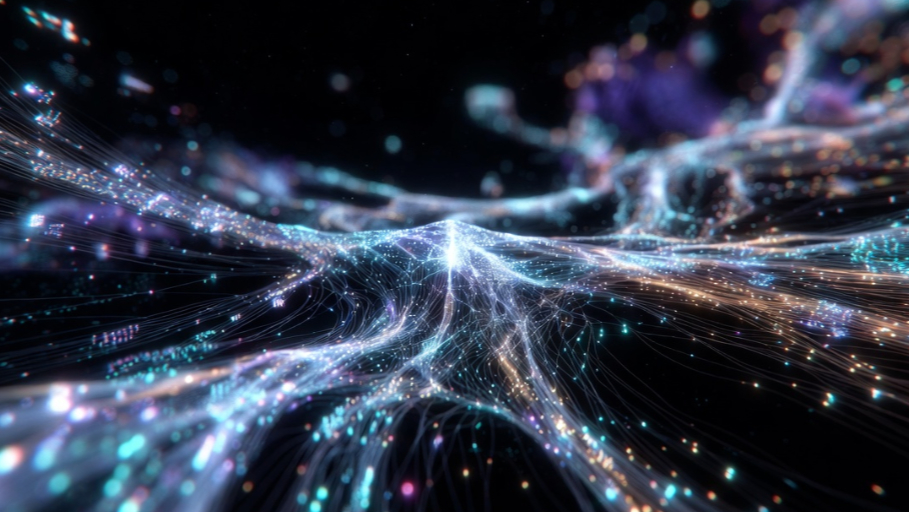
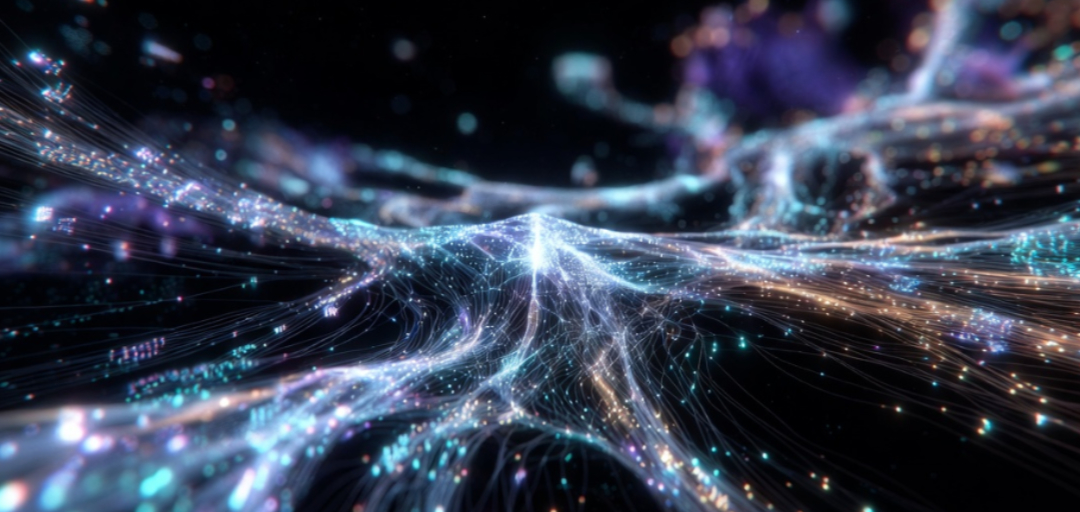
latent-pond

diff --git a/docs/analogy/19 Latent Pond/latent-pond.html b/docs/analogy/19 Latent Pond/latent-pond.html
@@ -1,0 +1,77 @@
+<!DOCTYPE html>
+<html lang="en">
+<head>
+    <meta charset="UTF-8">
+    <meta name="viewport" content="width=device-width, initial-scale=1.0">
+    <title>The Latent Pond: Hyper Frog Jump Mechanics</title>
+    <link rel="stylesheet" href="../analogy.css">
+</head>
+<body>
+
+<img src="latent-pond.jpg" alt="The Latent Pond: Hyper Frog Jump Mechanics" style="max-width:100%; height:auto; display:block; margin:0 auto 2rem;">
+
+<h1><span class="title-main">The Latent Pond</span>: <span class="title-sub">Hyper Frog Jump Mechanics</span></h1>
+<p class="byline">Ben Um · March 30, 2026</p>
+
+<p>This piece belongs to an ongoing series of articles I’ve been writing. The index page refers to it as the “Analogy Series,” but I’ve been informally calling the evolving collection my <strong>Mental Stack</strong> — a living, growing archive of ideas, personal experiences, and cross-domain analogies that I continue to expand and revisit. When I feed this entire Mental Stack into an LLM as context, it becomes the rich prefill that powers the generation process I’m about to describe.</p>
+
+<p>Imagine the generation process as a <strong>hyper-frog</strong> navigating a pond. The hyper-frog is a playful metaphor for the autoregressive decoding mechanism of the LLM. Each micro-hop represents one step of next-token generation — the model deciding what comes next, token by token.</p>
+
+<p>The prefill operation does two crucial things at once. First, it constructs a semantically rich lily pad pond by computing and storing explicit Key-Value snapshots for every token in the Mental Stack. These snapshots encode directional intent — concrete relational waypoints. Second, it generates the final hidden state corresponding to the last prompt token. This hidden state serves as the precise starting position for the hyper-frog when generation begins.</p>
+
+<p>From that point forward, every micro-hop is fully deterministic: the current hidden state produces a Query that attends directly to the explicit directional signals in the growing KV cache. The resulting computation produces a new hidden state, which becomes the input for the next micro-hop. There are no side registers or external initializations — the KV cache is the sole persistent carrier of context and encoded intent.</p>
+
+<h2>The Beauty of Explicit Directional Snapshots</h2>
+<p>The most striking beauty of the KV cache is that intent itself is encoded explicitly in each snapshot. Every lily pad placed during prefill carries not just content, but a directional waypoint — a concrete relational signal in its Key and Value vectors saying “pull here when a proportional query arrives.”</p>
+
+<p>The hyper-frog’s micro-hops do not guess at direction. They query these explicit snapshots directly. The waypoint is not implied by the growing sequence. It is already present, baked into the cache geometry.</p>
+
+<p>This is what makes feeding the entire Mental Stack as prefill so powerful. The pond becomes dense with interconnected lily pads carrying strong, persistent directional beacons from concepts such as “views are values,” “git diff reconciliation,” “KRO kernels,” and “dad jokes as Reynolds probe.”</p>
+
+<h2>The Hyper-Frog in Motion</h2>
+<p>During generation the hyper-frog performs thousands of micro-hops. Each hop is a tiny perspective shift driven by the attention mechanism:</p>
+<ul>
+    <li>The current hidden state forms a Query.</li>
+    <li>The Query measures proportional compatibility against all cached Keys.</li>
+    <li>Softmax produces attention weights that blend the corresponding Values.</li>
+    <li>This blended context updates the hidden state for the next hop.</li>
+</ul>
+<p>The generated narrative we read is the travelogue of this incremental navigation. When the frog glides faithfully along strong kernel alignments, the output feels grounded and insightful. When it ventures near the laminar-to-turbulent threshold, we see productive eddies or sudden cross-domain bridges — classic Reynolds-number behavior.</p>
+
+<h2>The Human as Precision Instrument</h2>
+<p>The generated output is the specimen we are examining — what engineers call the “device under test,” or DUT. Just as I once used an HP 4284A precision LCR meter with its large LCD display to probe MOS capacitors and painstakingly extract near-conduction-band interface trap densities in SiC via AC conductance measurements, the human reader — armed with the rich Mental Stack that shaped the prefill — now acts as the precision instrument.</p>
+
+<p>By writing this series of articles, I am building my own diagnostic toolkit: a set of lived primitives and KRO-reduced kernels that let me measure how strongly the narrative traverses specific lily pads, where the hyper-frog’s micro-hops show clean alignment with the explicit directional snapshots in the KV cache, and where smooth narrative may be masking weaker or opportunistic signals.</p>
+
+<h2>The Instrumentation Loop</h2>
+<p>This gives us a practical, locally runnable methodology:</p>
+<ol>
+    <li><strong>Reduce</strong> target ideas from the prefill articles to compact kernels using the Kernel Reduction Operator (KRO).</li>
+    <li><strong>Generate</strong> while observing the narrative for signs of the hyper-frog traversing toward those kernels.</li>
+    <li><strong>Inspect</strong> the KV cache at interesting moments (feasible with local inference tools such as Hugging Face Transformers’ <code>past_key_values</code>).</li>
+    <li><strong>Measure</strong> explicit alignment between the cache slices (or current Query) and the reduced kernel’s embedding set.</li>
+</ol>
+<p>Strong explicit alignment + clear traversal in output = faithful expansion driven by the prefill’s encoded intent.<br>
+Weaker alignment + overly smooth narrative = more opportunistic blending.</p>
+
+<h2>Why This Matters</h2>
+<p>The dual nature of attention becomes even more profound here. The model reads explicit directional signals encoded in silicon snapshots. The human reader resonates proportionally with the same underlying ideas. Both are navigating a landscape where intent has been made explicit — one through QKV mathematics, the other through lived analogical memory.</p>
+
+<p>This approach also highlights the neutral power of Con-Science: the very act of narration is itself the conscience of the narrative. The same smoothness can produce genuine insight when riding strong directional beacons — or plausible but shallower confidence when the underlying signals are weaker. It is therefore double-edged — capable of both real discovery and quiet illusion.</p>
+
+<p>What makes this scaffold especially powerful is that it opens the door to <strong>micro-hop inspection</strong>. Because the KV cache is the sole persistent state, we can locally examine — at any chosen step — how a specific snapshot (or cluster of snapshots) mathematically influenced the next micro-hop. By measuring alignment between the current Query, the cached directional signals, and our KRO-reduced kernels, we gain clearer visibility into whether each hop was driven by faithful expansion of prefill intent or by smoother, more opportunistic blending.</p>
+
+<p>This scaffold does not replace deep mechanistic interpretability. It complements it by giving us a lightweight, analogy-native way to probe generated text: not just <em>what</em> the frog traversed, but <em>how</em> the explicit snapshots in the KV cache shaped each micro-hop along the way.</p>
+
+<p class="closing">The loop never really closes. It just gets more instrumented — and therefore more interesting.</p>
+
+<p class="byline">Mental Stack + DJ series (informally known as the Analogy Series on the index page) · Still very much a work-in-progress exploratory scaffold. Feedback, local test runs, or variant prompts welcome.</p>
+
+<nav class="nav-bottom">
+    <a href="../18%20Compositor%20Theory/compositor-theory.html">← Previous</a>
+    <a href="../analogy.html">Index</a>
+    <span class="nav-disabled">Next →</span>
+</nav>
+
+</body>
+</html>

diff --git a/docs/analogy/analogy.html b/docs/analogy/analogy.html
@@ -37,6 +37,7 @@
     <li><a href="16%20Linear%20Algebra/linear-algebra.html">16. Linear Algebra in the Wild: From Oxidation Tubes to KV Cache</a></li>
     <li><a href="17%20Waypoints/waypoints.html">17. Waypoints: The Quiet Design Pattern That Keeps Coming Back</a></li>
     <li><a href="18%20Compositor%20Theory/compositor-theory.html">18. Waypoint Narrative: LLMs + Abstract Waypoint Sets</a></li>
+    <li><a href="19%20Latent%20Pond/latent-pond.html">19. The Latent Pond: Hyper Frog Jump Mechanics</a></li>
 </ul>
 
 </body>

diff --git a/docs/analogy/18 Compositor Theory/compositor-theory.html b/docs/analogy/18 Compositor Theory/compositor-theory.html
@@ -53,7 +53,7 @@
 <nav class="nav-bottom">
 <a href="../17%20Waypoints/waypoints.html">← Previous</a>
 <a href="../analogy.html">Index</a>
-<span class="nav-disabled">Next →</span>
+<a href="../19%20Latent%20Pond/latent-pond.html">Next →</a>
 </nav>
 </body>
 </html>
